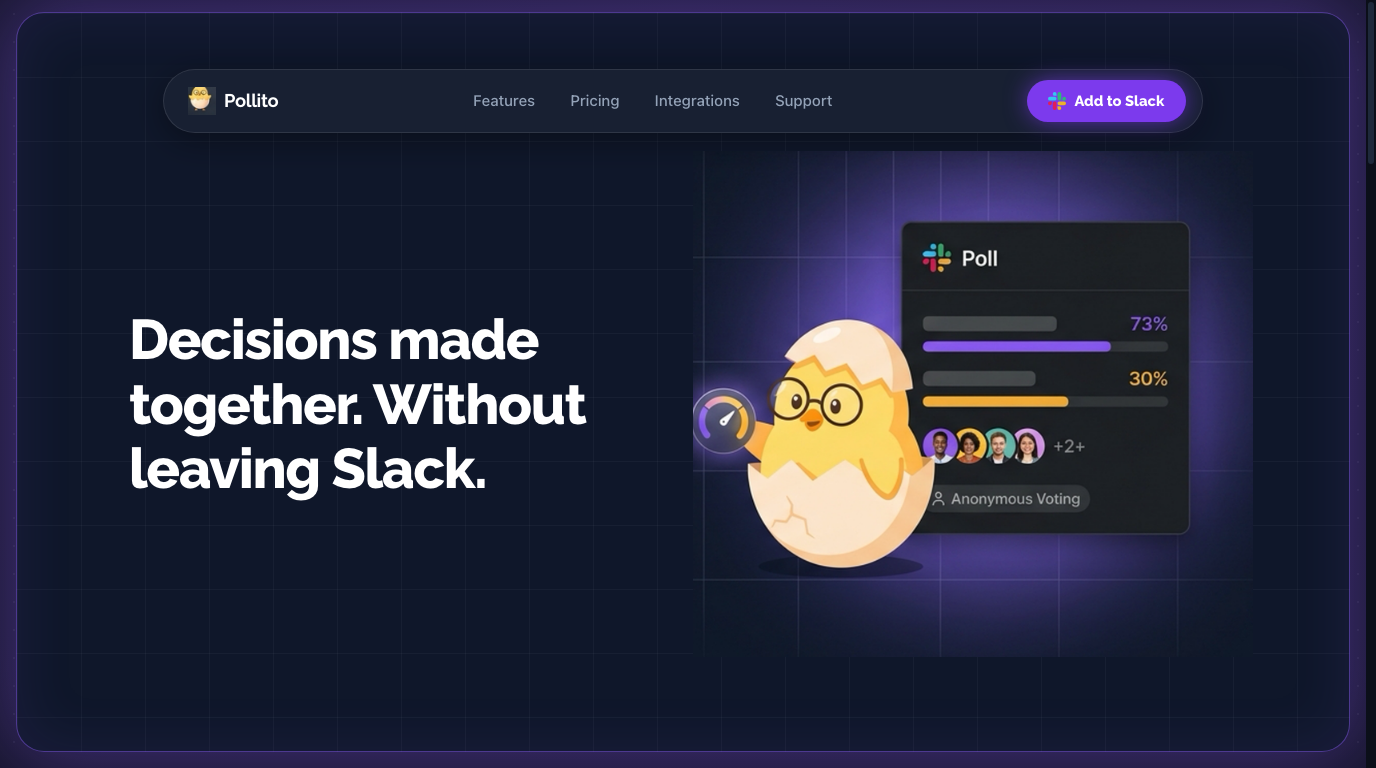
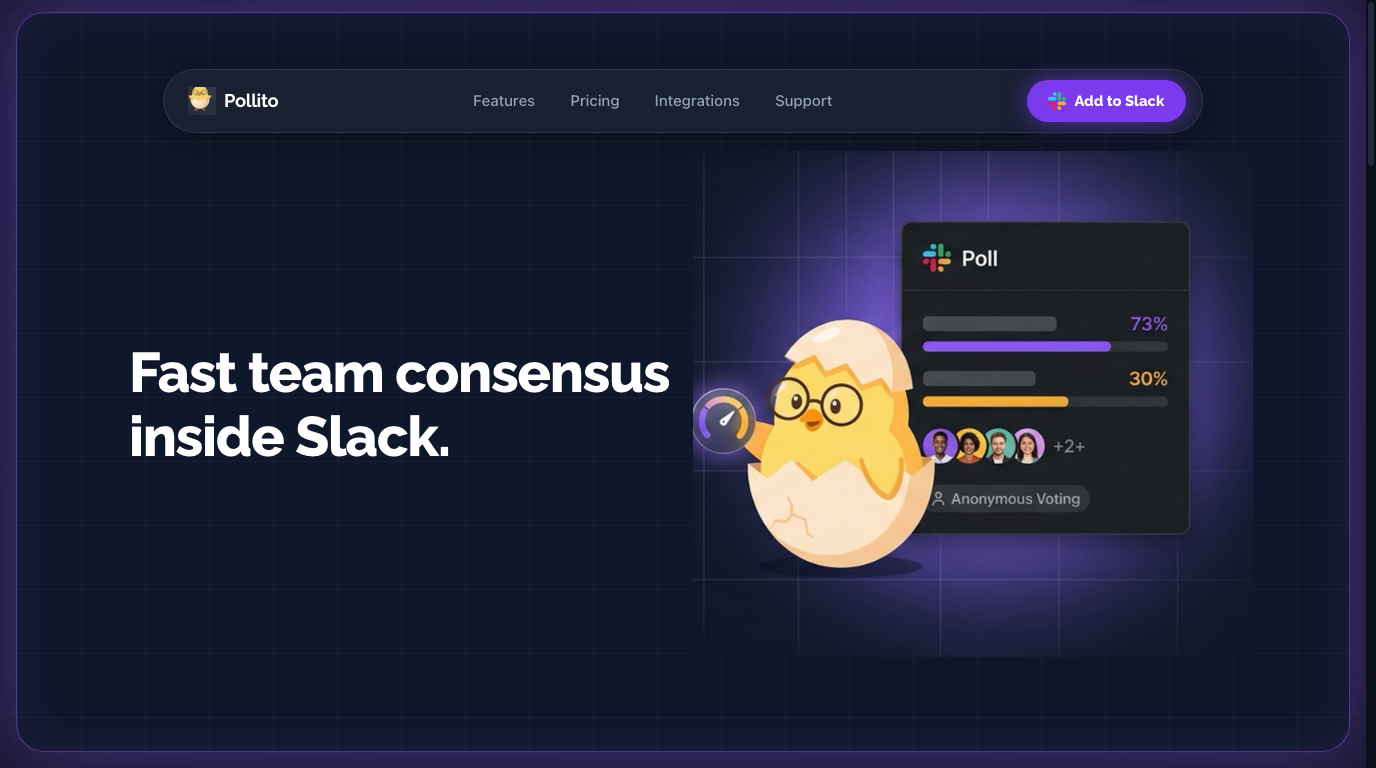
copy: update headline to 'Fast team consensus inside Slack' and refine subcopy

Changed region(s): [[0.0938, 0.4062, 0.5, 0.6562]]

diff --git a/public/index.html b/public/index.html
@@ -3,8 +3,8 @@
 <head>
   <meta charset="UTF-8">
   <meta name="viewport" content="width=device-width, initial-scale=1.0">
-  <title>Pollito — Fast Team Decisions Inside Slack</title>
-  <meta name="description" content="Native Slack polling with quorum auto-closing, secret ballots, and full analytics in App Home. Predictable $15/mo flat pricing.">
+  <title>Pollito — Fast Team Consensus Inside Slack</title>
+  <meta name="description" content="In-channel polls with automatic quorum closing, secret ballots, and zero per-seat fees. Simple flat $15/mo pricing for Slack teams.">
   <link rel="stylesheet" href="styles.css">
   <link rel="icon" type="image/png" href="assets/plates/pollito-nav-logo.png">
 </head>
@@ -41,7 +41,7 @@
       <section class="hero-section">
         <div class="hero-grid">
           <div class="hero-content">
-            <h1 class="hero-title">Decisions made<br>together. Without<br>leaving Slack.</h1>
+            <h1 class="hero-title">Fast team consensus<br>inside Slack.</h1>
           </div>
 
           <div class="hero-visual-stage">
@@ -56,7 +56,7 @@
     <!-- Value Proposition Banner -->
     <section class="subhero-banner container">
       <p class="hero-subtitle">
-        Create fast polls in channels and threads. Track participation with quorum targets, protect team honesty with blind-token secret ballots, and manage team consensus directly inside Slack.
+        In-channel polls with automatic quorum closing, secret ballots, and zero per-seat fees.
       </p>
       <div class="hero-actions">
         <a href="https://slack.com/oauth/v2/authorize" class="btn btn-slack">
